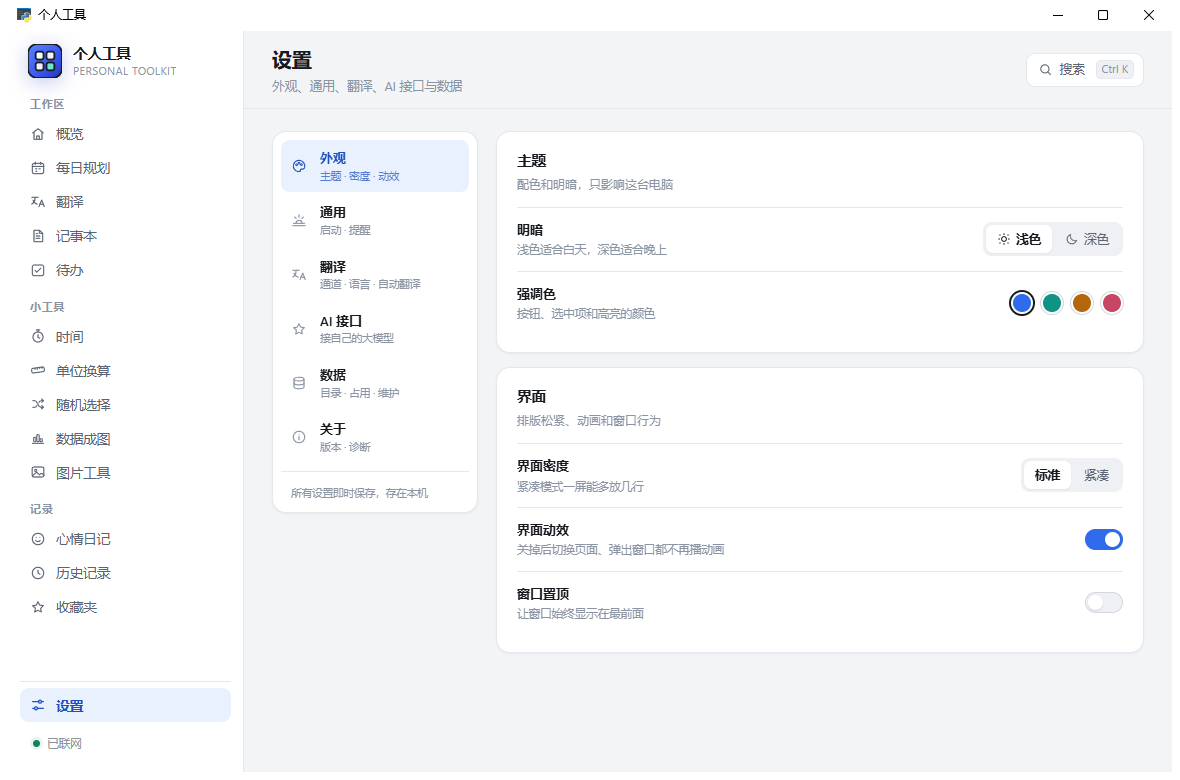
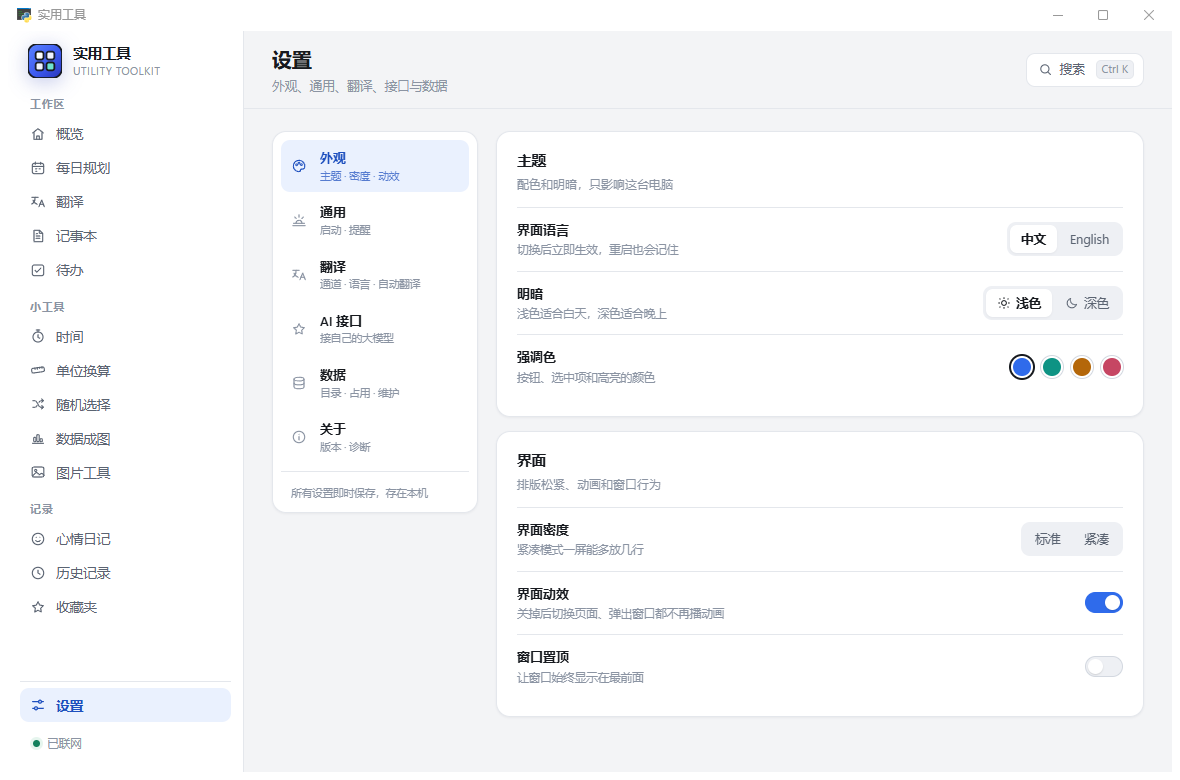
docs: 更新 README 界面截图

diff --git a/dev/dev_readme_shots.py b/dev/dev_readme_shots.py
@@ -1,0 +1,92 @@
+"""重新生成 README 用的界面截图（docs/screenshots）。
+
+README 里的图还停在改名前（「个人工具」），所以统一按当前版本重拍一遍。
+固定浅色主题 + 中文，四张：概览 / 翻译 / 图片工具 / 设置。
+拍完顺手校验文件名与尺寸，避免把半张图或者空白图塞进文档。
+"""
+
+import json
+import sys
+import time
+from pathlib import Path
+
+ROOT = Path(__file__).resolve().parent.parent
+sys.path.insert(0, str(ROOT / "app"))
+sys.path.insert(0, str(ROOT / "dev"))
+
+OUT = ROOT / "docs" / "screenshots"
+PAGES = [
+    ("home", "#/"),
+    ("translate", "#/translate"),
+    ("image", "#/image"),
+    ("settings", "#/settings"),
+]
+
+checks = []
+
+
+def check(name, ok, detail=""):
+    checks.append((name, bool(ok), detail))
+    print(("PASS  " if ok else "FAIL  ") + name + (f"  ({detail})" if detail else ""))
+
+
+def main():
+    import webview
+    import app as appmod
+    from shot_util import find, shot
+
+    pref_file = appmod.data_dir() / "ui_prefs.json"
+    try:
+        saved = json.loads(pref_file.read_text(encoding="utf-8")) if pref_file.exists() else {}
+    except Exception:
+        saved = {}
+    saved["theme"] = "light"
+    saved["language"] = "zh"
+    saved["density"] = "standard"
+    pref_file.write_text(json.dumps(saved, ensure_ascii=False), encoding="utf-8")
+
+    OUT.mkdir(parents=True, exist_ok=True)
+    win = appmod.build_window()[0]
+
+    def js(code, default=None):
+        try:
+            return win.evaluate_js(code)
+        except Exception:
+            return default
+
+    def on_start():
+        end = time.time() + 40
+        while time.time() < end:
+            if js("document.readyState") == "complete":
+                break
+            time.sleep(0.4)
+        time.sleep(2.0)
+        hwnd = find("实用工具")
+        check("窗口已就绪", bool(hwnd), f"hwnd={hwnd}")
+
+        for name, route in PAGES:
+            js(f"location.hash = '{route}'")
+            time.sleep(1.4)
+            path = OUT / f"{name}.png"
+            shot(hwnd, path)
+            size = path.stat().st_size if path.exists() else 0
+            check(f"{name}.png 已生成", size > 20000, f"{size // 1024} KB")
+
+        # README 里那两张并排图只用到这四张，多拍一张关于页留给后面的文档
+        js("document.querySelector('#setRail .set-tab[data-set-tab=\"about\"]').click()")
+        time.sleep(1.0)
+        shot(hwnd, OUT / "about.png")
+        check("about.png 已生成", (OUT / "about.png").stat().st_size > 20000,
+              f"{(OUT / 'about.png').stat().st_size // 1024} KB")
+
+        win.destroy()
+
+    webview.start(func=on_start, gui="edgechromium")
+
+    failed = [c for c in checks if not c[1]]
+    print(f"\n{len(checks) - len(failed)}/{len(checks)} 通过")
+    return 1 if failed else 0
+
+
+if __name__ == "__main__":
+    sys.exit(main())

diff --git a/dev/dev_dark_inputs.py b/dev/dev_dark_inputs.py
@@ -123,8 +123,6 @@ def main():
 
         js("document.querySelector('.modal-close')?.click()")
         time.sleep(0.4)
-        # 恢复深色偏好，别影响用户下次打开
-        js("document.querySelector('#themeSeg button[data-theme=\"dark\"]').click()") if False else None
         win.destroy()
 
     webview.start(func=on_start, gui="edgechromium")

diff --git a/README.md b/README.md
@@ -71,9 +71,11 @@ no account, no cloud, everything stays on your disk.
 |---|---|
 | ![翻译](docs/screenshots/translate.png) | ![图片工具](docs/screenshots/image.png) |
 
-| 设置 |
-|---|
-| ![设置](docs/screenshots/settings.png) |
+| 设置 | 关于 |
+|---|---|
+| ![设置](docs/screenshots/settings.png) | ![关于](docs/screenshots/about.png) |
+
+截图均为浅色主题 + 中文界面；深色主题与英文界面在设置里一键切换。
 
 ## 实现上的几个选择
 
